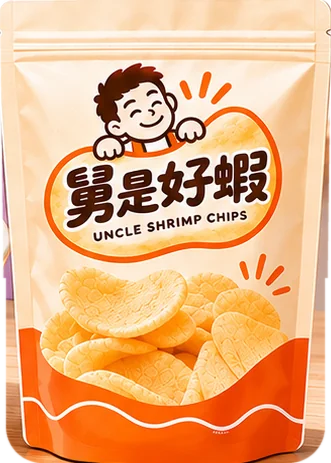
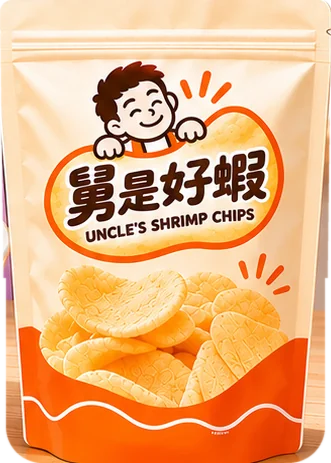
改用主視覺 v3（UNCLE'S SHRIMP CHIPS）、免運門檻改為 $520
Claude-Session: https://claude.ai/code/session_01D7H7hAX32bPMwR21E7MCwf

diff --git a/admin/admin.js b/admin/admin.js
@@ -77,7 +77,7 @@
       ["黃建國", "0966777888", "cvs", "全家 板橋文化店", [["原味三入組", "100g × 3 包", 499, 2]], "completed", 120, ""],
       ["李淑芬", "0977888999", "home", "台中市西屯區台灣大道三段 99 號", [["家庭分享包", "大包 250g", 399, 1]], "cancelled", 200, "改期再訂"]
     ].map((d, i) => {
-      const sub = d[4].reduce((a, x) => a + x[2] * x[3], 0), fee = sub >= 1200 ? 0 : ({ home: 150, cvs: 70, pickup: 0 })[d[2]];
+      const sub = d[4].reduce((a, x) => a + x[2] * x[3], 0), fee = sub >= 520 ? 0 : ({ home: 150, cvs: 70, pickup: 0 })[d[2]];
       return { id: "demo-" + i, order_no: "USC2611" + (13 - Math.floor(d[6] / 24)).toString().padStart(2, "0") + "-" + (0xA1B2C + i * 4099).toString(16).toUpperCase().slice(0, 5),
         status: d[5], created_at: new Date(now - d[6] * H).toISOString(), customer_name: d[0], phone: d[1], ship_method: d[2],
         ship_name: { home: "宅配到府（貨到付款）", cvs: "超商取貨付款", pickup: "預約自取（付現）" }[d[2]], address: d[3], note: d[7] || null,
@@ -106,7 +106,7 @@
       saveProduct: (p) => { const i = demoProducts.findIndex((x) => x.id === p.id); const row = { ...p, price: Number(p.price), sale_price: p.sale_price === "" || p.sale_price == null ? null : Number(p.sale_price) }; if (row.sale_price != null && row.sale_price >= row.price) return Promise.reject(new Error("invalid_sale")); if (i >= 0) demoProducts[i] = row; else demoProducts.push(row); log.unshift({ at: new Date().toISOString(), actor_email: "owner@example.com", action: i >= 0 ? "update_product" : "create_product", detail: { product: p.id, name: p.name, price_to: p.price } }); return wait(row); },
       uploadImage: (blob) => wait(URL.createObjectURL(blob))
     };
-    var demoPromo = { enabled: false, name: "新開張試行 全館 7 折", pay_percent: 70, start_at: null, end_at: new Date(Date.now() + 17 * 864e5).toISOString(), free_shipping_threshold: 1200 };
+    var demoPromo = { enabled: false, name: "新開張試行 全館 7 折", pay_percent: 70, start_at: null, end_at: new Date(Date.now() + 17 * 864e5).toISOString(), free_shipping_threshold: 520 };
     var demoLive = () => { const n = Date.now(); const on = demoPromo.enabled && demoPromo.pay_percent < 100 && (!demoPromo.start_at || n >= Date.parse(demoPromo.start_at)) && (!demoPromo.end_at || n < Date.parse(demoPromo.end_at)); return on ? { active: true, name: demoPromo.name, pay_percent: demoPromo.pay_percent, end_at: demoPromo.end_at } : { active: false }; };
     var demoProducts = [
       { id: "original", name: "原味手工蝦餅", spec: "單包 100g", price: 100, active: true, sort: 1, tag: "招牌", description: "經典原味蝦餅，小鍋現炸、酥脆不油膩。", image_url: "../assets/bag.webp" },

diff --git a/index.html b/index.html
@@ -405,7 +405,7 @@ footer .tbd{background:color-mix(in srgb,var(--cream) 18%,transparent);color:inh
       <div class="faq-grid">
         <details open><summary>多久會出貨？</summary><p>蝦餅為小鍋手工現炸，完成訂購並確認付款後，約 3 至 5 個工作天出貨。節慶檔期訂單較多，出貨時間可能延長。</p></details>
         <details><summary>原料是哪裡來的？</summary><p>蝦餅原料（生蝦餅片）是舅舅在印尼工作時找到的穩定來源，進口後在台灣由我們手工油炸、包裝。包裝上會依食品標示規定標示產地資訊。</p></details>
-        <details><summary>運費怎麼算？</summary><p>宅配 NT$150、超商取貨 NT$70，單筆訂單滿 NT$1,200 免運費。也可預約到店自取，不收運費。</p></details>
+        <details><summary>運費怎麼算？</summary><p>宅配 NT$150、超商取貨 NT$70，單筆訂單滿 NT$520 免運費。也可預約到店自取，不收運費。</p></details>
         <details><summary>可以放多久？怎麼保存？</summary><p>未開封常溫保存約 3 個月，請放在陰涼乾燥處、避免陽光直射。開封後請盡快食用完畢，或用夾子密封保持酥脆。</p></details>
         <details><summary>有哪些過敏原？</summary><p>本產品含有蝦（甲殼類），並在處理其他海鮮的環境製作，對甲殼類或海鮮過敏者請勿食用。</p></details>
         <details><summary>可以大量訂購嗎？</summary><p>可以！公司行號、活動團購等大量訂購，請在訂購備註留言，或透過 LINE 聯繫我們報價。</p></details>
@@ -497,7 +497,7 @@ footer .tbd{background:color-mix(in srgb,var(--cream) 18%,transparent);color:inh
     {id:"cvs",name:"超商取貨",note:"7-11 / 全家，填寫取貨門市名稱",fee:70},
     {id:"pickup",name:"預約自取",note:"自取地點與時間，將由我們另行聯繫確認",fee:0}
   ];
-  const FREE=1200;
+  const FREE=520;
   let PROMO=null; // {name,pay_percent,end_at}，由資料庫提供；實際金額以資料庫下單時計算為準
   const up=p=>p.sale_price!=null&&p.sale_price<p.price?p.sale_price:PROMO?Math.round(p.price*PROMO.pay_percent/100):p.price;
   const zhe=v=>(v%10?String(v):String(v/10))+" 折";

diff --git a/src/template.html b/src/template.html
@@ -391,7 +391,7 @@ footer .tbd{background:color-mix(in srgb,var(--cream) 18%,transparent);color:inh
       <div class="faq-grid">
         <details open><summary>多久會出貨？</summary><p>蝦餅為小鍋手工現炸，完成訂購並確認付款後，約 3 至 5 個工作天出貨。節慶檔期訂單較多，出貨時間可能延長。</p></details>
         <details><summary>原料是哪裡來的？</summary><p>蝦餅原料（生蝦餅片）是舅舅在印尼工作時找到的穩定來源，進口後在台灣由我們手工油炸、包裝。包裝上會依食品標示規定標示產地資訊。</p></details>
-        <details><summary>運費怎麼算？</summary><p>宅配 NT$150、超商取貨 NT$70，單筆訂單滿 NT$1,200 免運費。也可預約到店自取，不收運費。</p></details>
+        <details><summary>運費怎麼算？</summary><p>宅配 NT$150、超商取貨 NT$70，單筆訂單滿 NT$520 免運費。也可預約到店自取，不收運費。</p></details>
         <details><summary>可以放多久？怎麼保存？</summary><p>未開封常溫保存約 3 個月，請放在陰涼乾燥處、避免陽光直射。開封後請盡快食用完畢，或用夾子密封保持酥脆。</p></details>
         <details><summary>有哪些過敏原？</summary><p>本產品含有蝦（甲殼類），並在處理其他海鮮的環境製作，對甲殼類或海鮮過敏者請勿食用。</p></details>
         <details><summary>可以大量訂購嗎？</summary><p>可以！公司行號、活動團購等大量訂購，請在訂購備註留言，或透過 LINE 聯繫我們報價。</p></details>
@@ -483,7 +483,7 @@ footer .tbd{background:color-mix(in srgb,var(--cream) 18%,transparent);color:inh
     {id:"cvs",name:"超商取貨",note:"7-11 / 全家，填寫取貨門市名稱",fee:70},
     {id:"pickup",name:"預約自取",note:"自取地點與時間，將由我們另行聯繫確認",fee:0}
   ];
-  const FREE=1200;
+  const FREE=520;
   let PROMO=null; // {name,pay_percent,end_at}，由資料庫提供；實際金額以資料庫下單時計算為準
   const up=p=>p.sale_price!=null&&p.sale_price<p.price?p.sale_price:PROMO?Math.round(p.price*PROMO.pay_percent/100):p.price;
   const zhe=v=>(v%10?String(v):String(v/10))+" 折";

diff --git a/README.md b/README.md
@@ -98,7 +98,7 @@
 - 每次修改都會記在「操作紀錄」。
 
 ## 單品特價
-- 需先在 Supabase SQL Editor 執行 `supabase/004_sale_price.sql`（同時套用新定價：單包 $100、三入組 $260，關閉全館折扣，家庭分享包下架）。
+- 需先在 Supabase SQL Editor 執行 `supabase/004_sale_price.sql`（同時套用新定價：單包 $100、三入組 $260，滿 $520 免運，關閉全館折扣，家庭分享包下架）。
 - 後台 → 商品 → 點商品 → 「特價」欄填金額（要低於原價），留空＝不特價。
 - 有特價的商品以特價計算，**不再疊加全館折扣**；其他商品照全館折扣。
 
